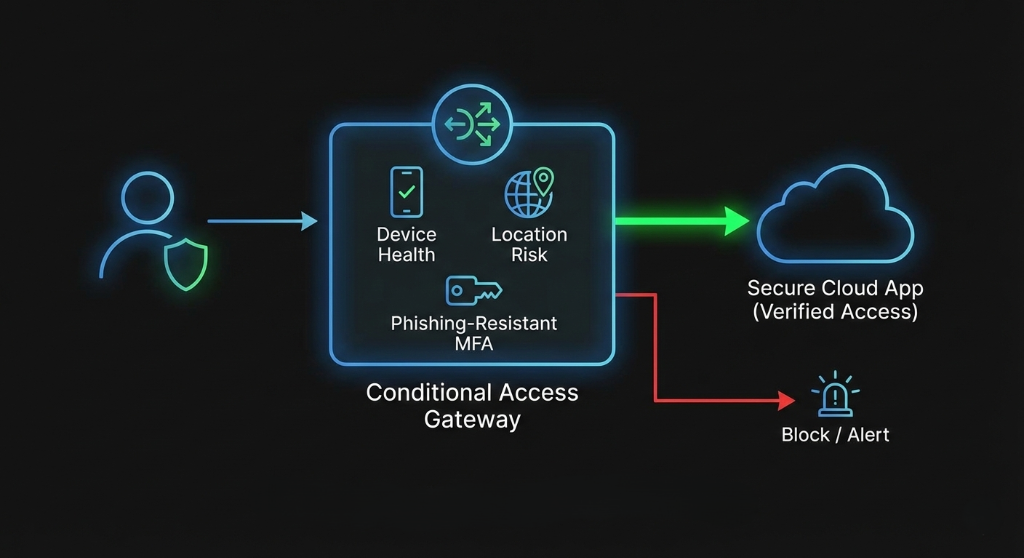
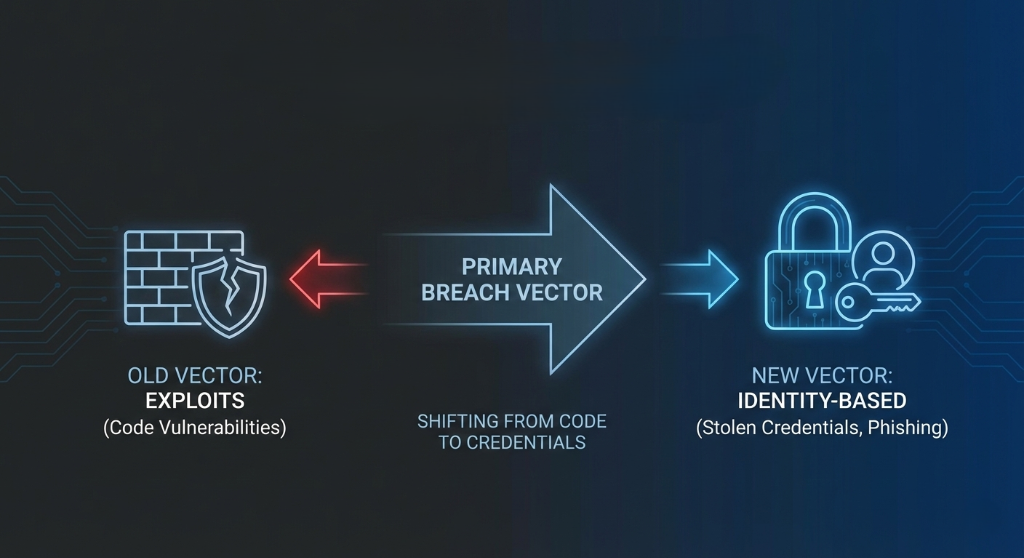
Fix blog renderer image nesting and update infographics

diff --git a/components/blog-content-renderer.tsx b/components/blog-content-renderer.tsx
@@ -99,6 +99,10 @@ export function BlogContentRenderer({
       })
       .replace(/^# (.*$)/gim, '\n<h1 class="text-4xl font-extrabold mt-16 mb-8 text-slate-900 dark:text-slate-100 tracking-tight">$1</h1>\n')
 
+      // Images - Standard Markdown syntax ![alt](url) - handle before paragraph wrapping to avoid nesting div in p
+      .replace(/!\[([^\]]+)\]\(([^)]+)\)/g, '<div class="my-12 flex flex-col items-center"><img src="$2" alt="$1" class="rounded-2xl shadow-2xl border border-slate-100 dark:border-slate-800 max-w-full h-auto" /></div>')
+
+
       // Ensure all paragraph text has consistent colors and sizing - Text-lg, leading-relaxed
       .replace(/^([^<\n].*)$/gm, '<p class="text-lg text-slate-700 dark:text-slate-300 mb-8 leading-8">$1</p>')
 
@@ -139,8 +143,7 @@ export function BlogContentRenderer({
       .replace(/^\* (.*$)/gim, '<div class="flex items-start mb-4 ml-2"><span class="mr-3 text-purple-600 text-lg mt-0.5">•</span><span class="text-lg text-slate-700 dark:text-slate-300 leading-8 flex-1">$1</span></div>')
       .replace(/^- (.*$)/gim, '<div class="flex items-start mb-4 ml-2"><span class="mr-3 text-purple-600 text-lg mt-0.5">•</span><span class="text-lg text-slate-700 dark:text-slate-300 leading-8 flex-1">$1</span></div>')
 
-      // Images - Standard Markdown syntax ![alt](url)
-      .replace(/!\[([^\]]+)\]\(([^)]+)\)/g, '<div class="my-10 flex flex-col items-center"><img src="$2" alt="$1" class="rounded-xl shadow-2xl border border-slate-200 dark:border-slate-800 max-w-full h-auto" /></div>')
+
 
       // Paragraphs with proper spacing
       .replace(/\n\n+/g, '</p>\n<p class="text-lg text-slate-700 dark:text-slate-300 mb-8 leading-8">')

diff --git a/content/blog/identity-based-attacks-primary-breach-vector-2026.md b/content/blog/identity-based-attacks-primary-breach-vector-2026.md
@@ -129,7 +129,7 @@ To combat this, security teams must pivot from network-centric to
 identity-centric defence. This requires a shift to a Zero Trust architecture,
 where trust is never granted implicitly based on a correct password.
 
-![Conditional Access Gateway Flow](/images/blog/identity-attacks-2026/conditional-access.png)
+![Identity-Based Breach Vector Shift](/images/blog/identity-attacks-2026/conditional-access.png)
 
 Defending against identity-based attacks requires fundamentally different
 approaches than traditional perimeter security or exploit prevention. Key
